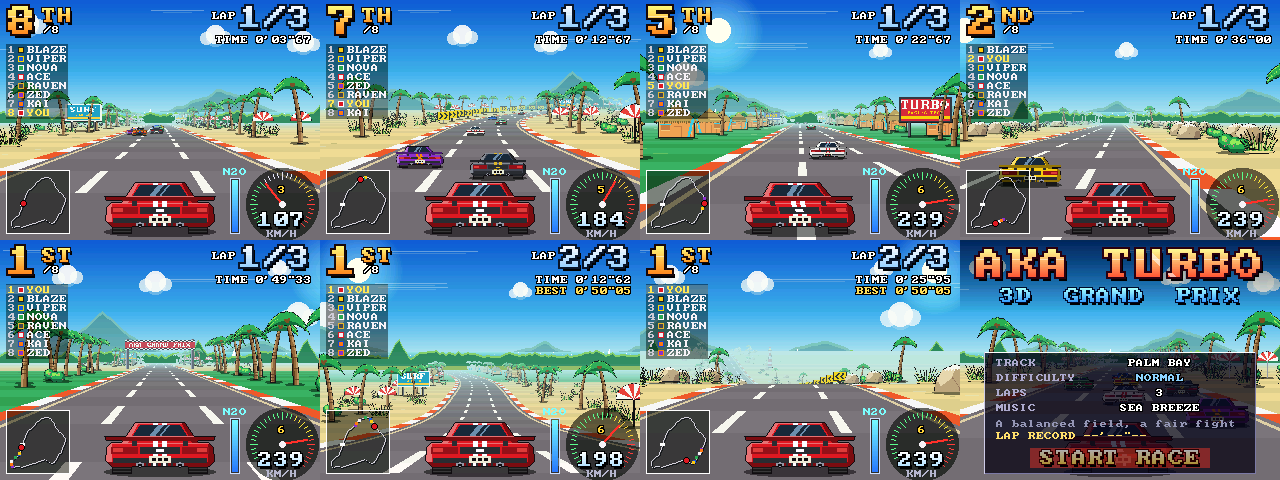
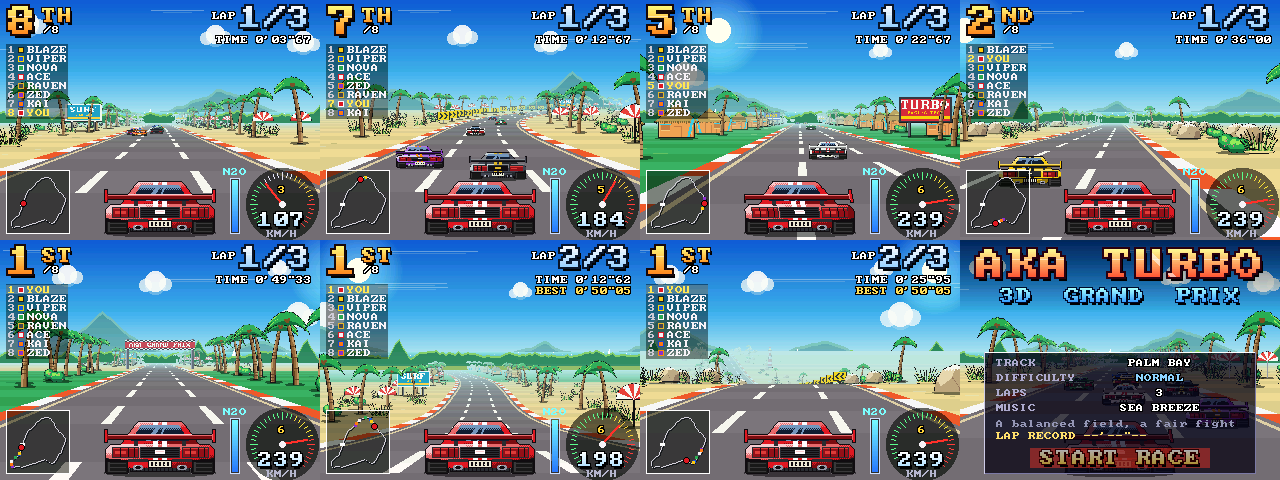
Voitures redessinées (peinture dégradée, aileron, feux à segments, plaque, échappements, pneus) + transition douce montagnes/sapins à Glacier Run
Claude-Session: https://claude.ai/code/session_01EQeUA4w9GznmEuzCBeZJ1C

diff --git a/main/game/sprites.cpp b/main/game/sprites.cpp
@@ -115,59 +115,101 @@ struct Canvas {
 
 // ------------------------------------------------------------------ cars
 // palette: 1 outline 2 body dark 3 body 4 body light 5 glass dark 6 glass light
-// 7 tyre 8 tyre light 9 tail 10 tail bright 11 trim 12 plate 13 exhaust 14 stripe
-enum { C_OUT = 1, C_BD, C_BM, C_BL, C_GD, C_GL, C_TY, C_TYL, C_TAIL, C_TAILB, C_TRIM, C_PLATE, C_EXH, C_STRIPE };
+// 7 tyre 8 tyre light 9 tail 10 tail bright 11 trim 12 plate 13 exhaust 14 stripe 15 specular
+enum { C_OUT = 1, C_BD, C_BM, C_BL, C_GD, C_GL, C_TY, C_TYL, C_TAIL, C_TAILB, C_TRIM, C_PLATE, C_EXH, C_STRIPE, C_SPEC };
 static const int CAR_W = 112, CAR_H = 58;
 
+// body paint with a soft gradient: lit from the upper left, darker towards the ground and the right flank
+static uint8_t body_shade(int x, int y, int y0, int y1) {
+    float t = (float)(y - y0) / (float)(y1 - y0);
+    float u = (x - 56) / 56.0f;
+    float sh = 0.74f - t * 0.72f - u * 0.30f;
+    static const float bay[4] = { 0.0f, 0.5f, 0.75f, 0.25f };
+    sh += (bay[(x & 1) + 2 * (y & 1)] - 0.375f) * 0.12f;
+    return sh > 0.74f ? C_SPEC : sh > 0.46f ? C_BL : sh > 0.10f ? C_BM : C_BD;
+}
+static void paint(Canvas& c, int y0, int y1) {      // turn the flat C_BM fill into shaded paint
+    for (int y = y0; y < y1; ++y)
+        for (int x = 0; x < CAR_W; ++x)
+            if (c.get(x, y) == C_BM) c.set(x, y, body_shade(x, y, y0, y1));
+}
+
 static void draw_car_base(Canvas& c) {
-    // soft shadow
-    c.ellipse(56, 53, 56, 5.5f, SHADOW);
-    // tyres
-    c.rect(8, 32, 20, 23, C_TY);
-    c.rect(84, 32, 20, 23, C_TY);
-    for (int y = 34; y < 55; y += 3) { c.rect(9, y, 18, 1, C_TYL); c.rect(85, y, 18, 1, C_TYL); }
-    // lower body
-    float body[] = { 7, 23, 105, 23, 110, 29, 111, 42, 105, 48, 7, 48, 1, 42, 2, 29 };
-    c.poly(body, 8, C_BM);
-    c.recolor(0, 23, CAR_W, 25, C_BM, C_BL);
-    c.recolor(0, 43, CAR_W, 49, C_BM, C_BD);
-    c.recolor(0, 25, 8, 43, C_BM, C_BL);        // lit left flank
-    c.recolor(104, 25, CAR_W, 43, C_BM, C_BD);  // shaded right flank
+    c.ellipse(56, 54, 56, 4.5f, SHADOW);
+    // rear tyres: wide, rounded, with tread rings and a bright shoulder
+    for (int side = 0; side < 2; ++side) {
+        int x0 = side ? 87 : 1;
+        c.rect(x0, 32, 24, 22, C_TY);
+        c.rect(x0 + 1, 54, 22, 1, C_TY);
+        for (int y = 36; y < 54; y += 4) c.rect(x0 + 3, y, 18, 1, C_TYL);
+        c.rect(x0, 33, 2, 20, C_OUT);  c.rect(x0 + 22, 33, 2, 20, C_OUT);
+        c.rect(x0 + 3, 36, 2, 16, C_TYL);                       // lit shoulder
+        c.set(x0, 54, 0); c.set(x0 + 23, 54, 0);
+    }
+    // body: wide fender flares over the tyres, narrower rear panel between them
+    float body[] = { 7, 25, 105, 25, 111, 30, 111, 39, 103, 40, 88, 41, 88, 49, 24, 49, 24, 41, 9, 40, 1, 39, 1, 30 };
+    c.poly(body, 12, C_BM);
+    paint(c, 25, 49);
     // cabin
-    c.quad(31, 3, 81, 3, 95, 24, 17, 24, C_BM);
-    c.recolor(0, 3, CAR_W, 5, C_BM, C_BL);
-    c.quad(17, 24, 31, 3, 35, 3, 24, 24, C_BL);     // left pillar (lit)
-    c.quad(88, 24, 77, 3, 81, 3, 95, 24, C_BD);     // right pillar (shade)
-    // rear window + reflections
-    c.quad(36, 6, 76, 6, 86, 21, 26, 21, C_GD);
-    c.quad(42, 21, 54, 6, 60, 6, 48, 21, C_GL);
-    c.quad(52, 21, 64, 6, 66, 6, 54, 21, C_GL);
-    // racing stripes over the body
-    for (int y = 3; y < 48; ++y)
-        for (int x = 0; x < CAR_W; ++x) {
-            bool s = (x >= 49 && x < 54) || (x >= 58 && x < 63);
-            uint8_t v = c.get(x, y);
-            if (s && (v == C_BM || v == C_BL || v == C_BD)) c.set(x, y, C_STRIPE);
+    float cab[] = { 31, 5, 35, 2, 77, 2, 81, 5, 95, 25, 17, 25 };
+    c.poly(cab, 6, C_BM);
+    paint(c, 2, 25);
+    // rear window: sky reflection on top, soft streaks
+    float win[] = { 37, 6, 75, 6, 85, 22, 27, 22 };
+    c.poly(win, 4, C_GD);
+    for (int y = 6; y < 22; ++y)
+        for (int x = 24; x < 90; ++x) {
+            if (c.get(x, y) != C_GD) continue;
+            float t = (y - 6) / 16.0f;
+            bool hi = t < 0.30f && ((x + y) & 1) == 0;
+            if (hi || (t < 0.14f)) c.set(x, y, C_GL);
         }
-    // rear wing
-    c.quad(0, 17, 112, 17, 110, 22, 2, 22, C_BD);
-    c.rect(2, 17, 108, 1, C_BL);
-    c.rect(28, 22, 5, 5, C_TRIM);
-    c.rect(79, 22, 5, 5, C_TRIM);
-    // tail lights + centre panel
-    c.rect(7, 28, 27, 7, C_TAIL);
-    c.rect(78, 28, 27, 7, C_TAIL);
-    c.rect(9, 29, 10, 4, C_TAILB);
-    c.rect(93, 29, 10, 4, C_TAILB);
-    c.rect(36, 28, 40, 7, C_TRIM);
-    c.rect(52, 30, 8, 3, C_STRIPE);
-    // bumper, plate, diffuser, exhausts
-    c.rect(9, 39, 94, 5, C_TRIM);
-    c.rect(45, 37, 22, 7, C_PLATE);
-    c.rect(48, 39, 4, 3, C_OUT); c.rect(54, 39, 4, 3, C_OUT); c.rect(60, 39, 4, 3, C_OUT);
-    for (int x = 42; x < 72; x += 5) c.rect(x, 44, 2, 4, C_TRIM);
-    c.ellipse(36, 46, 4.5f, 2.6f, C_EXH); c.ellipse(36, 46, 2.2f, 1.3f, C_OUT);
-    c.ellipse(76, 46, 4.5f, 2.6f, C_EXH); c.ellipse(76, 46, 2.2f, 1.3f, C_OUT);
+    c.quad(42, 22, 53, 6, 58, 6, 47, 22, C_GL);
+    c.quad(53, 22, 61, 6, 63, 6, 55, 22, C_GL);
+    c.rect(30, 20, 52, 1, C_OUT);                               // lower window seal
+    // racing stripes along roof, deck and tail
+    for (int y = 2; y < 49; ++y)
+        for (int x = 0; x < CAR_W; ++x) {
+            bool st = (x >= 49 && x < 54) || (x >= 58 && x < 63);
+            uint8_t v = c.get(x, y);
+            if (st && (v == C_BM || v == C_BL || v == C_BD || v == C_SPEC)) c.set(x, y, C_STRIPE);
+        }
+    // spoiler: end plates, pylons, thick blade with a lit top edge
+    c.rect(30, 22, 4, 5, C_TRIM); c.rect(78, 22, 4, 5, C_TRIM);
+    c.quad(2, 15, 110, 15, 109, 21, 3, 21, C_BD);
+    c.rect(2, 15, 108, 1, C_SPEC); c.rect(3, 16, 106, 1, C_BL);
+    c.rect(3, 20, 106, 1, C_OUT);
+    c.rect(0, 10, 4, 14, C_BM); c.rect(0, 10, 1, 14, C_BL); c.rect(3, 10, 1, 14, C_BD);
+    c.rect(108, 10, 4, 14, C_BM); c.rect(108, 10, 1, 14, C_BL); c.rect(111, 10, 1, 14, C_BD);
+    // tail lights: lens housings with segments, a slatted centre panel
+    for (int x0 : { 8, 78 }) {
+        c.rect(x0, 28, 27, 11, C_TRIM);
+        c.rect(x0 + 1, 29, 25, 9, C_TAIL);
+        c.rect(x0 + 1, 29, 25, 1, C_TAILB);
+        c.rect(x0 + 3, 32, 11, 3, C_TAILB);
+        for (int k : { 8, 16, 22 }) c.rect(x0 + k, 29, 1, 9, C_OUT);
+    }
+    c.rect(36, 28, 40, 11, C_TRIM);
+    for (int y = 29; y < 38; y += 2) c.rect(37, y, 38, 1, C_OUT);
+    c.rect(51, 31, 10, 5, C_STRIPE); c.rect(52, 32, 8, 1, C_SPEC); c.rect(51, 35, 10, 1, C_OUT);
+    // number plate with tiny characters
+    c.rect(44, 41, 24, 8, C_PLATE);
+    c.rect(44, 41, 24, 1, C_OUT); c.rect(44, 48, 24, 1, C_OUT); c.rect(44, 41, 1, 8, C_OUT); c.rect(67, 41, 1, 8, C_OUT);
+    for (int k = 0; k < 5; ++k) { c.rect(47 + k * 4, 43, 2, 4, C_OUT); if (k & 1) c.set(48 + k * 4, 45, C_PLATE); }
+    // bumper bar, diffuser fins, chrome exhausts
+    c.rect(24, 40, 20, 3, C_TRIM); c.rect(68, 40, 20, 3, C_TRIM);
+    c.rect(26, 49, 60, 4, C_TRIM);
+    for (int x = 28; x < 84; x += 4) c.rect(x, 49, 1, 4, C_OUT);
+    for (int ex : { 34, 78 }) {
+        c.ellipse(ex, 48.5f, 5.0f, 3.0f, C_EXH);
+        c.ellipse(ex, 48.8f, 2.6f, 1.6f, C_OUT);
+        c.set(ex - 3, 47, C_PLATE); c.set(ex - 2, 46, C_PLATE);
+    }
+    // shade under the flares, over the tyres
+    for (int side = 0; side < 2; ++side) {
+        int x0 = side ? 87 : 1;
+        for (int y = 40; y < 43; ++y) for (int x = x0; x < x0 + 24; ++x) { uint8_t v = c.get(x, y); if (v == C_TY || v == C_TYL) c.set(x, y, C_OUT); }
+    }
 }
 
 static void make_cars() {
@@ -192,7 +234,7 @@ static void make_cars() {
             }
         }
         // the side of the car becomes visible on the outer side
-        for (int y = 23; y < 46; ++y) {
+        for (int y = 26; y < 39; ++y) {
             if (dir < 0) { for (int k = 104; k < 111; ++k) if (c.get(k, y) && c.get(k, y) != SHADOW) c.set(k, y, C_BD); }
             else         { for (int k = 1;   k < 8;   ++k) if (c.get(k, y) && c.get(k, y) != SHADOW) c.set(k, y, C_BL); }
         }
@@ -211,9 +253,10 @@ void car_palette(uint16_t out[16], const Livery& l, bool braking) {
     out[C_OUT] = rgb(16, 12, 20);
     out[C_BD] = gfx::scale(l.body, 150);
     out[C_BM] = l.body;
-    out[C_BL] = gfx::lerp(l.body, 0xFFFF, 100);
-    out[C_GD] = rgb(30, 40, 62);
-    out[C_GL] = rgb(110, 140, 170);
+    out[C_BL] = gfx::lerp(l.body, 0xFFFF, 90);
+    out[C_SPEC] = gfx::lerp(l.body, 0xFFFF, 200);
+    out[C_GD] = rgb(22, 30, 52);
+    out[C_GL] = rgb(118, 150, 186);
     out[C_TY] = rgb(26, 24, 28);
     out[C_TYL] = rgb(58, 56, 62);
     out[C_TAIL] = braking ? rgb(255, 40, 40) : rgb(150, 18, 26);
@@ -222,7 +265,6 @@ void car_palette(uint16_t out[16], const Livery& l, bool braking) {
     out[C_PLATE] = rgb(236, 232, 210);
     out[C_EXH] = rgb(150, 150, 160);
     out[C_STRIPE] = l.stripe;
-    out[15] = 0;
 }
 
 // ------------------------------------------------------------------ scenery

diff --git a/main/game/render.cpp b/main/game/render.cpp
@@ -291,7 +291,7 @@ void glacier_far(const Track& tr, const Theme& th, int off, int baseY) {
             rock = lerp(rock, ic, iceAmt);
             uint16_t c = lerp(rock, snow, sm);
             // aerial haze towards the foot of the range
-            int haze = alt < 16 ? 150 - alt * 8 : 22;
+            int haze = alt < 24 ? 205 - alt * 7 : 37;
             if (d < 2) c = lerp(c, snowLit, 90);           // thin bright rim on the crest
             p[y * W] = lerp(c, th.fog, haze);
         }
@@ -402,6 +402,12 @@ void draw_layers(const Race& r, int baseY) {
             if (tr.theme == THEME_CITY) {
                 if (alt >= h - 1) c = th.nearHi;
                 else if ((col % 5) == 1 && (y % 5) == 1 && (hash32(col * 7 + y) & 3) == 0) c = rgb(255, 200, 120);
+            } else if (tr.theme == THEME_GLACIER) {
+                // conifer belt melting into the mountain haze: no hard dark edge
+                int dd = h - alt;                                   // 0 at the treeline
+                int hz = 70;
+                if (dd < 7) hz = 70 + (7 - dd) * 18 + ((((x + y) & 1) ? 10 : -10));
+                c = lerp(c, th.fog, hz > 230 ? 230 : hz < 0 ? 0 : hz);
             } else if (alt >= h - 1) c = th.nearHi;
             p[y * W] = c;
         }
